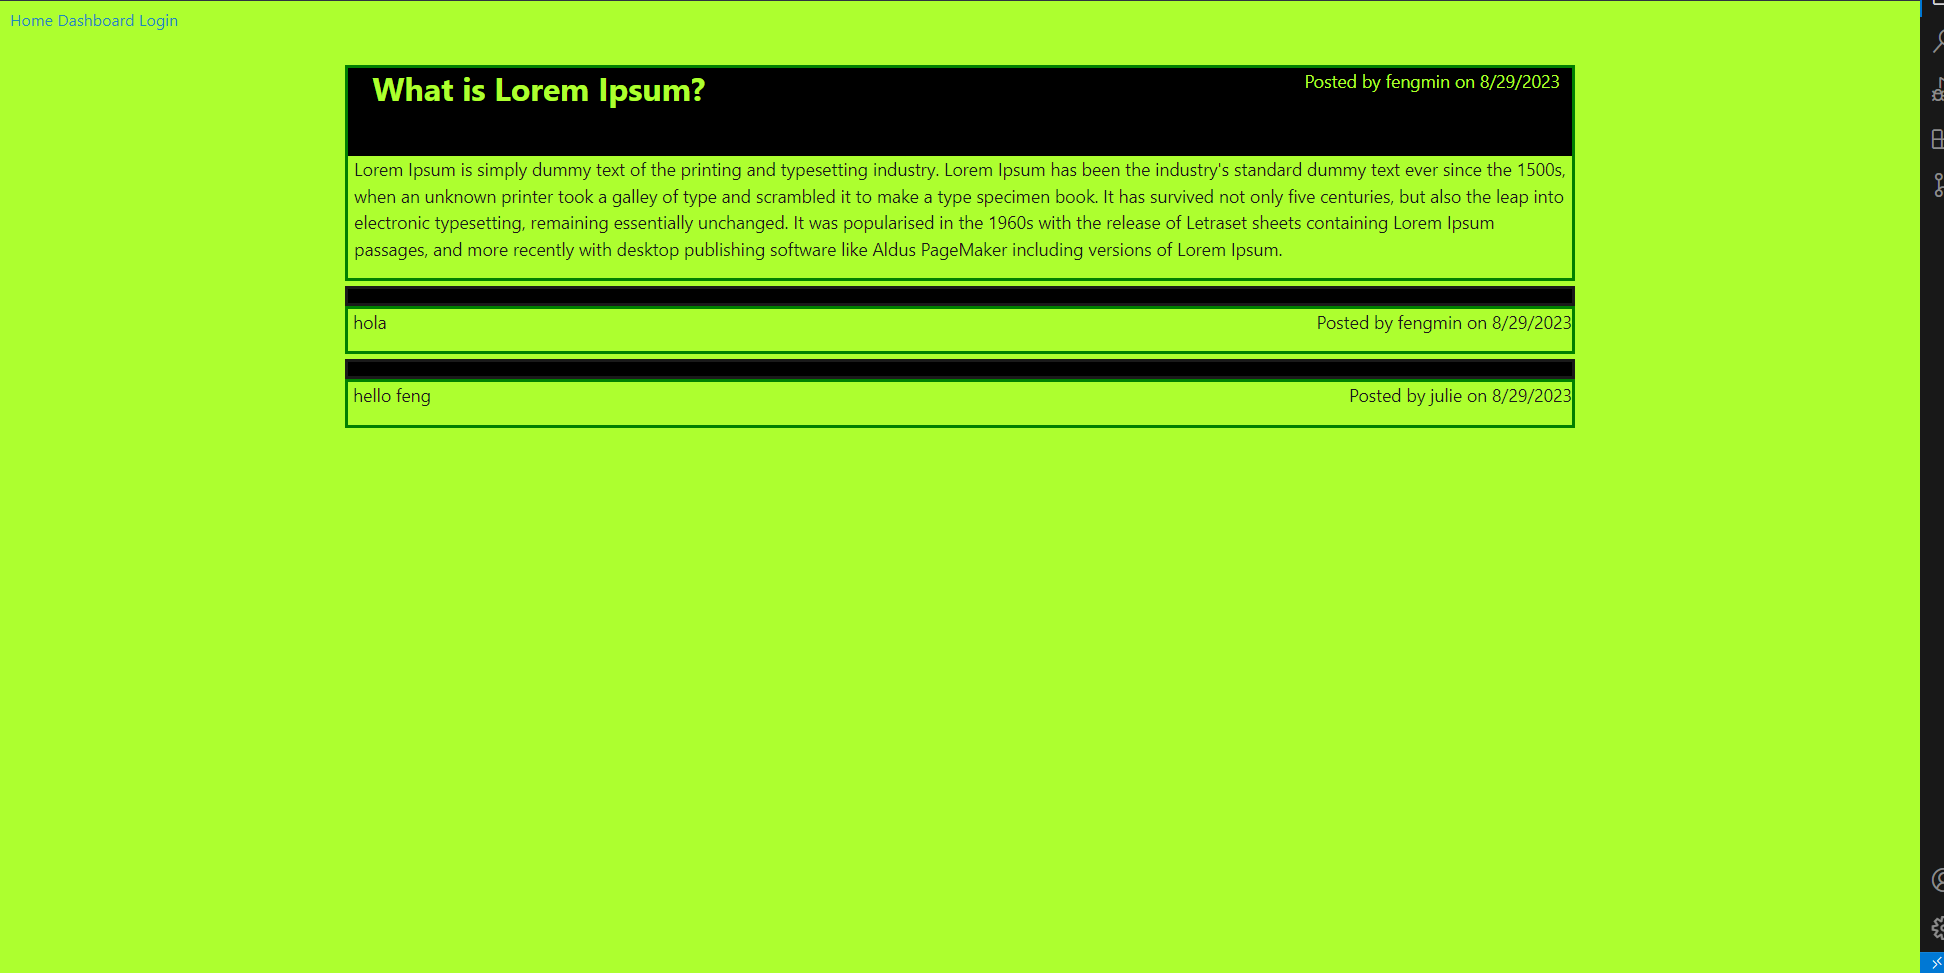
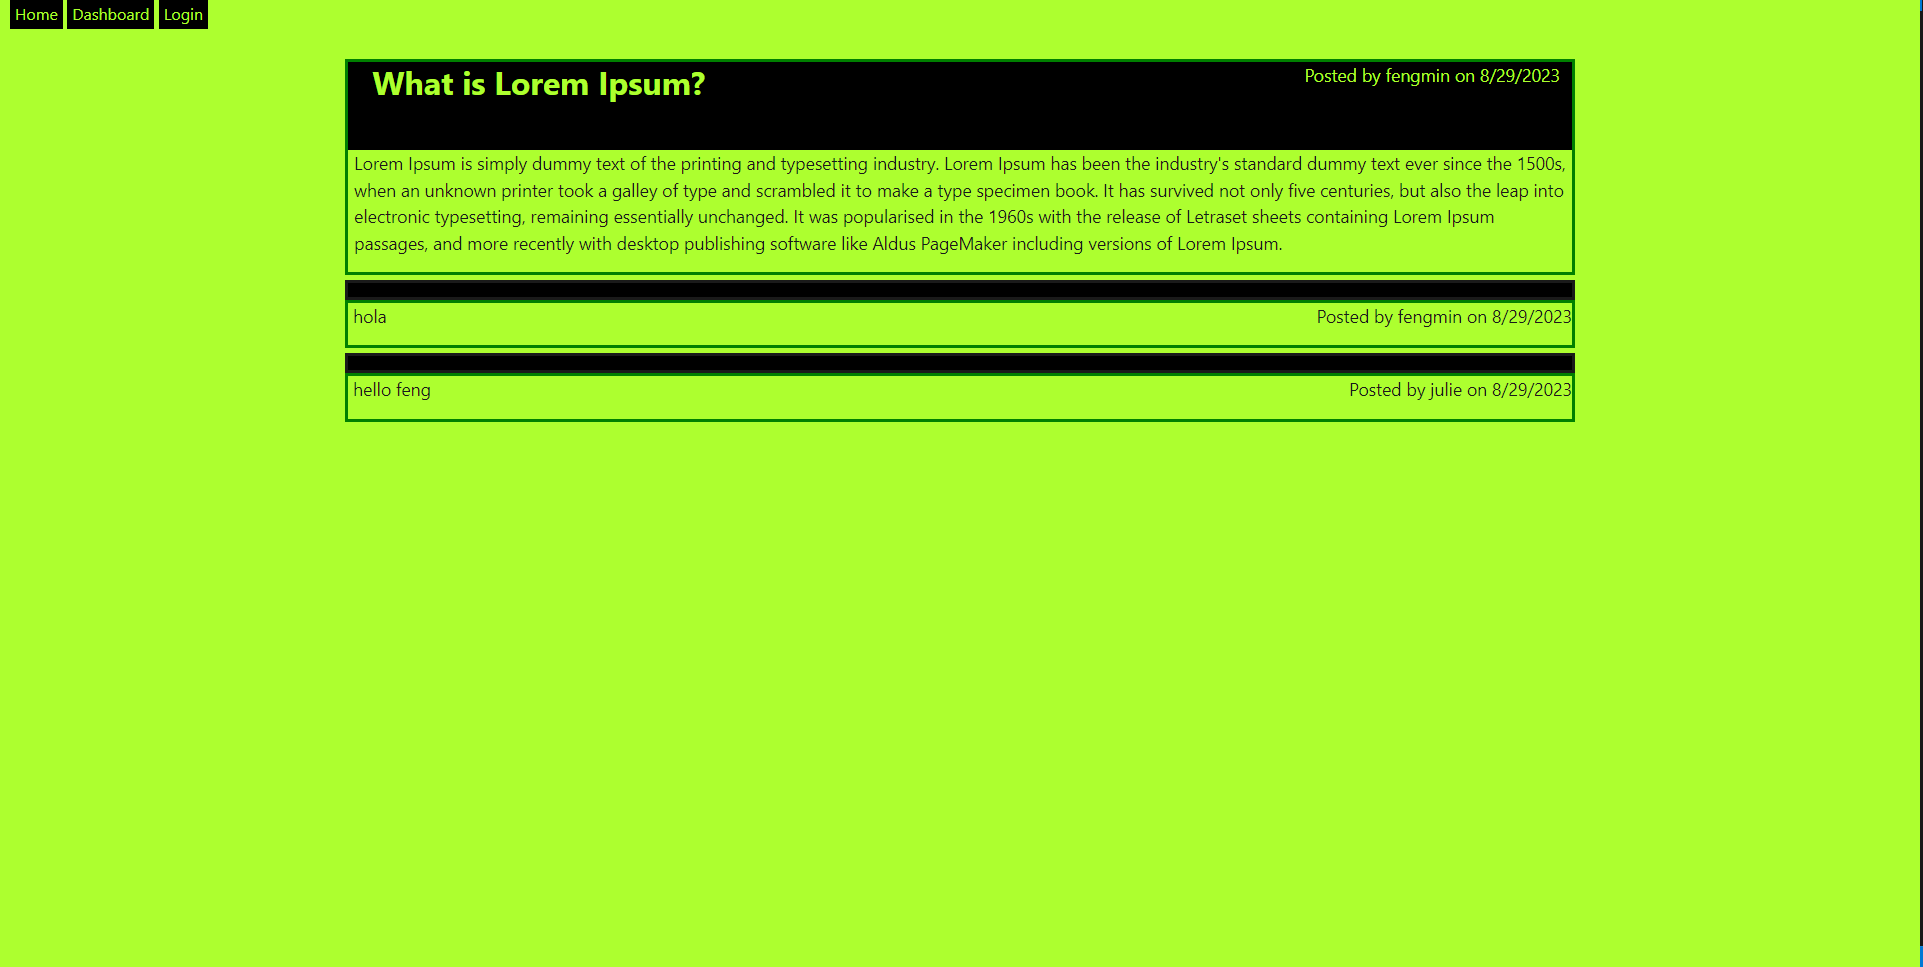
Updated README.md

Changed region(s): [[0.156, 0.062, 0.8424, 0.4654], [0.9672, 0.0, 1.0, 1.0], [0.0, 0.0, 0.1248, 0.031]]

diff --git a/public/js/editPost.js b/public/js/editPost.js
@@ -8,10 +8,11 @@ const updatePostHandler = async (event) => {
 
     if (event.target.hasAttribute('data-id')) {
         const id = event.target.getAttribute('data-id');
+        let response; 
 
         if (title || content) {
             if (!content) {
-                const response = await fetch(`/api/blogposts/${id}`, {
+                 response = await fetch(`/api/blogposts/${id}`, {
                     method: 'PUT',
                     body: JSON.stringify({ title }),
                     headers: {
@@ -21,7 +22,7 @@ const updatePostHandler = async (event) => {
             }
 
             else if (!title) {
-                const response = await fetch(`/api/blogposts/${id}`, {
+                 response = await fetch(`/api/blogposts/${id}`, {
                     method: 'PUT',
                     body: JSON.stringify({ content }),
                     headers: {
@@ -31,7 +32,7 @@ const updatePostHandler = async (event) => {
             }
 
             else {
-                const response = await fetch(`/api/blogposts/${id}`, {
+                 response = await fetch(`/api/blogposts/${id}`, {
                     method: 'PUT',
                     body: JSON.stringify({ title, content }),
                     headers: {
@@ -42,7 +43,8 @@ const updatePostHandler = async (event) => {
 
 
             if (response.ok) {
-                document.location.replace(`/`);
+                console.log(document.location);
+                document.location.replace(`../profile`);
 
             }
         }

diff --git a/public/css/style.css b/public/css/style.css
@@ -4,7 +4,8 @@ body {
 
 nav a{
   background-color: black;
-  color: greenyellow 
+  color: greenyellow;
+  padding: 5px; 
 }
 
 #logout {
@@ -12,6 +13,7 @@ nav a{
   color: greenyellow ;
   border: none;
   text-decoration: none;
+  padding: 7px; 
 }
 
 #logout:hover{
@@ -37,7 +39,7 @@ nav a{
 }
 
 .post-header a {
-  color: greenyellow;
+  color: greenyellow; 
 }
 
 .post-title{

diff --git a/README.md b/README.md
@@ -1,0 +1,68 @@
+# Tech Blog
+
+## Description
+
+This CMS style blog sites allows developers who write about tech the ability to publish articles, blog posts, their thoughts and opinions.
+
+## Table Of Contents
+
+- [Installation](#installation)
+- [Usage](#usage)
+- [License](#license)
+- [How To Contribute](#how-to-contribute)
+- [Tests](#tests)
+- [Questions](#questions)
+
+## Installation
+
+Please run 'npm install bcrypt' in a command line terminal to install all the bcrypt packages. 
+
+Please run 'npm install connect-session-sequelize' in a command line terminal to install all the connect-session-sequelize packages. 
+
+Please run 'npm install dotenv' in a command line terminal to install all the dotenv packages. 
+
+Please run 'npm install express' in a command line terminal to install all the express packages. 
+
+
+Please run 'npm install express-handlebars' in a command line terminal to install all the express-handlebars packages. 
+
+Please run 'npm install express-session' in a command line terminal to install all the express-session packages. 
+
+
+Please run 'npm install mysql2' in a command line terminal to install all the mysql2 packages. 
+
+Please run 'npm i sequelize' in a command line terminal to install all the sequelize packages. 
+
+
+## Usage
+
+To use this tech blog, please visit  https://frank-tech-blog-045fc2396261.herokuapp.com/ .
+
+### Screenshot of Sample Landing Page:
+
+![screenshot of sample landing page](public/images/landingpage.png)
+
+### Screenshot of Sample Blog Post Page: 
+![screenshot of sample blog post page](public/images/blogpost.png)
+
+## License
+
+![License: MIT](https://img.shields.io/badge/License-MIT-yellow.svg)
+
+License Link: https://opensource.org/licenses/MIT
+
+## How To Contribute
+
+Please contribute at github.com/fzhao888/Employee-Tracker
+
+## Tests
+
+N/A
+
+## Questions
+
+If you have any questions, please here is my contact info:
+
+GitHub: fzhao888
+
+Email: frank.zhao93@gmail.com
